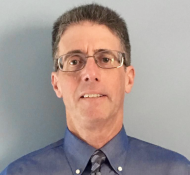
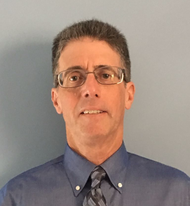
updated image, color scheme

diff --git a/static/css/sustain-main.css b/static/css/sustain-main.css
@@ -1,0 +1,199 @@
+/* Main page with stikky-footer */
+html, body {
+  height: 100%;
+  background-color: #fff;
+  font-family: 'Source Sans Pro', sans-serif;
+  /* The html and body elements cannot have any padding or margin. */
+  border-top: 3px solid #2170a8;
+}
+
+/* Wrapper for page content to push down footer */
+#wrap {
+  padding-bottom: 50px;
+  min-height: 100%;
+  height: auto;
+  /* Negative indent footer by its height */
+  margin: 0 auto -65px;
+  /* Pad bottom by footer height */
+  /*padding: 0 0 60px;*/
+}
+
+/* Navbar */
+.navbar-static-top {
+  margin-bottom: 10px;
+}
+.navbar-default {
+  background-color: #ffffff;
+  border-color: #ffffff;
+}
+.navbar-default .navbar-brand {
+  color: #6b6b6b;
+}
+.navbar-default .navbar-brand:hover, .navbar-default .navbar-brand:focus {
+  color: #6b6b6b;
+}
+.navbar-default .navbar-text {
+  color: #6b6b6b;
+}
+.navbar-default .navbar-nav > li > a {
+  color: #6b6b6b;
+}
+.navbar-default .navbar-nav > li > a:hover, .navbar-default .navbar-nav > li > a:focus {
+  color: #6b6b6b;
+}
+.navbar-default .navbar-nav > .active > a, .navbar-default .navbar-nav > .active > a:hover, .navbar-default .navbar-nav > .active > a:focus {
+  color: #6b6b6b;
+  background-color: #ffffff;
+}
+.navbar-default .navbar-nav > .open > a, .navbar-default .navbar-nav > .open > a:hover, .navbar-default .navbar-nav > .open > a:focus {
+  color: #6b6b6b;
+  background-color: #ffffff;
+}
+.navbar-default .navbar-toggle {
+  border-color: #ffffff;
+}
+.navbar-default .navbar-toggle:hover, .navbar-default .navbar-toggle:focus {
+  background-color: #ffffff;
+}
+.navbar-default .navbar-toggle .icon-bar {
+  background-color: #6b6b6b;
+}
+.navbar-default .navbar-collapse,
+.navbar-default .navbar-form {
+  border-color: #6b6b6b;
+}
+.navbar-default .navbar-link {
+  color: #6b6b6b;
+}
+.navbar-default .navbar-link:hover {
+  color: #6b6b6b;
+}
+@media (max-width: 767px) {
+  .navbar-default .navbar-nav .open .dropdown-menu > li > a {
+    color: #6b6b6b;
+  }
+  .navbar-default .navbar-nav .open .dropdown-menu > li > a:hover, .navbar-default .navbar-nav .open .dropdown-menu > li > a:focus {
+    color: #6b6b6b;
+  }
+  .navbar-default .navbar-nav .open .dropdown-menu > .active > a, .navbar-default .navbar-nav .open .dropdown-menu > .active > a:hover, .navbar-default .navbar-nav .open .dropdown-menu > .active > a:focus {
+    color: #6b6b6b;
+    background-color: #ffffff;
+  }
+}
+
+/* Custom page CSS */
+.container {
+  width: auto;
+  max-width: 800px;
+  text-align: center;
+}
+.container .text-muted {
+  margin: 20px 0;
+}
+a {
+  color: #2170a8;
+}
+a:hover {
+  color: #2064a8;
+}
+.container p img, .img-responsive {
+  display: block;
+  height: auto;
+  margin: 2rem auto;
+  max-width: 100%;
+}
+.panel-default h4 {
+  text-align: left;
+  line-height: 24px;
+  font-size: 22px;
+}
+.panel-default h5 {
+  text-align: left;
+  line-height: 30px;
+  font-size: 18px;
+}
+.panel-default h6 {
+  font-size: 15px;
+}
+.panel-default h4 a, h5 a {
+  color: #2170a8;
+}
+.panel-default h4 a:hover, h5 a:hover {
+  color: #2064a8;
+}
+.panel{
+  border-style: none;
+}
+.panel-body {
+  padding-top: -10px;
+  text-align: left;
+}
+.social-links {
+  display: block;
+  margin: 0 auto;
+  margin-top: 40px;
+  padding: 0px;
+  width: 100%;
+  text-align: center;
+  animation: fade 1s ease 1s both;
+}
+.social-links li {
+  display: inline-block;
+  padding: 5px;
+  padding-top: 0;
+  text-align: center;
+}
+.social-links li a {
+  font-size: 20px;
+  color: #000;
+  padding: 10px;
+  padding-bottom: 4px;
+  transition: all .4s ease;
+}
+.social-links li a:hover {
+  color: #000;
+}
+.avatar {
+  padding-top: 5%;
+}
+.blog-post{
+  padding-top: 15px;
+}
+.blog-title{
+  padding-top: 2px;
+}
+.label {
+  display: inline-block;
+  margin-bottom: 5px;
+}
+.related-posts h4 {
+  text-align: center;
+}
+.page-not-found {
+  padding-top: 20%;
+}
+.disqus {
+  padding-bottom: 15px;
+}
+.blogpost{
+  text-align: left;
+  line-height: 30px;
+  font-size: 18px;
+}
+
+/* Footer  */
+.footer {
+  text-decoration: none !important;
+}
+.text-muted {
+	color: #6b6b6b;
+}
+div.footer{
+  border-bottom: 5px solid #2170a8;;
+}
+/* Set the fixed height of the footer here */
+/*.footer {
+  height: 50px;
+  padding-bottom: 15px;
+
+}*/

diff --git a/static/css/vitae-layout.css b/static/css/vitae-layout.css
@@ -1,0 +1,130 @@
+/*@import url(https://fonts.googleapis.com/css?family=Raleway:700,400);*/
+
+/*body {
+    font-family: "Raleway", Helvetica, Arial, sans-serif;
+    font-size: 15px;
+    line-height: 21px;
+    color: rgb(48, 48, 48);
+    border-top: 5px solid #27a822;
+    border-bottom: 5px solid #27A822;
+}*/
+
+.vitae-container {
+    margin-top: 50px;
+}
+
+.vitae-basic a {
+    color: #6b6b6b;
+}
+
+p, address {
+    margin-bottom: 0;
+}
+
+.me {
+    width: 100px;
+    height: 100px;
+    border-radius: 50px;
+    -webkit-border-radius: 50px;
+    -moz-border-radius: 50px;
+    margin-bottom: 20px;
+}
+
+header > h1, section > h1 {
+    color: #2170a8;
+}
+
+header > h1 {
+    line-height: 100%;
+    font-size: 250%;
+    margin-bottom: 20px;
+}
+
+.vitae-container > header p, .vitae-container > header address {
+    margin-bottom: 20px;
+}
+
+.vitae-container > header p:last-child {
+    margin-bottom: 20px;
+}
+
+section {
+    margin-bottom: 20px;
+}
+
+section > h1 {
+    font-size: 140%;
+    line-height: 120%;
+    text-transform: uppercase;
+}
+
+article {
+    margin-bottom: 20px;
+}
+
+article > header > h1 {
+    font-size: 112%;
+    font-weight: bold;
+    line-height: 150%;
+    margin-bottom: 0;
+    color: inherit;
+}
+
+article > header > span + span {
+    margin-left: 2px;
+}
+
+article > header > span + span::before {
+    content: '@';
+    margin-right: 4px;
+}
+
+article > header > span {
+    color: #808080;
+    font-size: 100%;
+}
+
+article > header > span a {
+    color: inherit;
+}
+
+article > header address {
+    display: inline;
+}
+
+article > header address + time {
+    margin-left: 6px;
+}
+
+article > header address + time::before {
+    content: '—';
+    margin-right: 6px;
+}
+
+em {
+    font-style: normal;
+    font-weight: bold;
+    color: rgb(100, 100, 100);
+    /*margin-right: 6px;*/
+}
+
+@media print {
+    @page {
+        margin: 15mm;
+    }
+
+    body {
+        font-size: 14pt;
+        line-height: 21pt;
+    }
+
+    .vitae-container > header {
+        font-size: 80%;
+        line-height: 160%;
+    }
+
+    article > header > span {
+        font-size: 80%;
+        line-height: 80%;
+    }
+}

diff --git a/layouts/index.html b/layouts/index.html
@@ -13,7 +13,7 @@
         <h3>417 Montier Rd Glenside, PA 19038</h3>
         <h3>For references please view <a href="{{ .Site.BaseURL }}projects/"> testimonials</a>.</h3>
         <h3>For further information please consult my <a href="{{ .Site.BaseURL }}vitae/">resume</a>.</h3>
-        <h3>For an appointment or inquiry, contact me by email at <a href="mailto:{{ .Site.Params.Social.Email }}">frank.a.angiolilllo@gmail.com</a> or call (215) 512-4655</h3>
+        <h3>For an appointment or inquiry, contact me by email at <a href="mailto:{{ .Site.Params.Social.Email }}">frank.a.angiolillo@gmail.com</a> or call (215) 512-4655</h3>
         {{ partial "social.html" . }}
         </div>
       </section>
